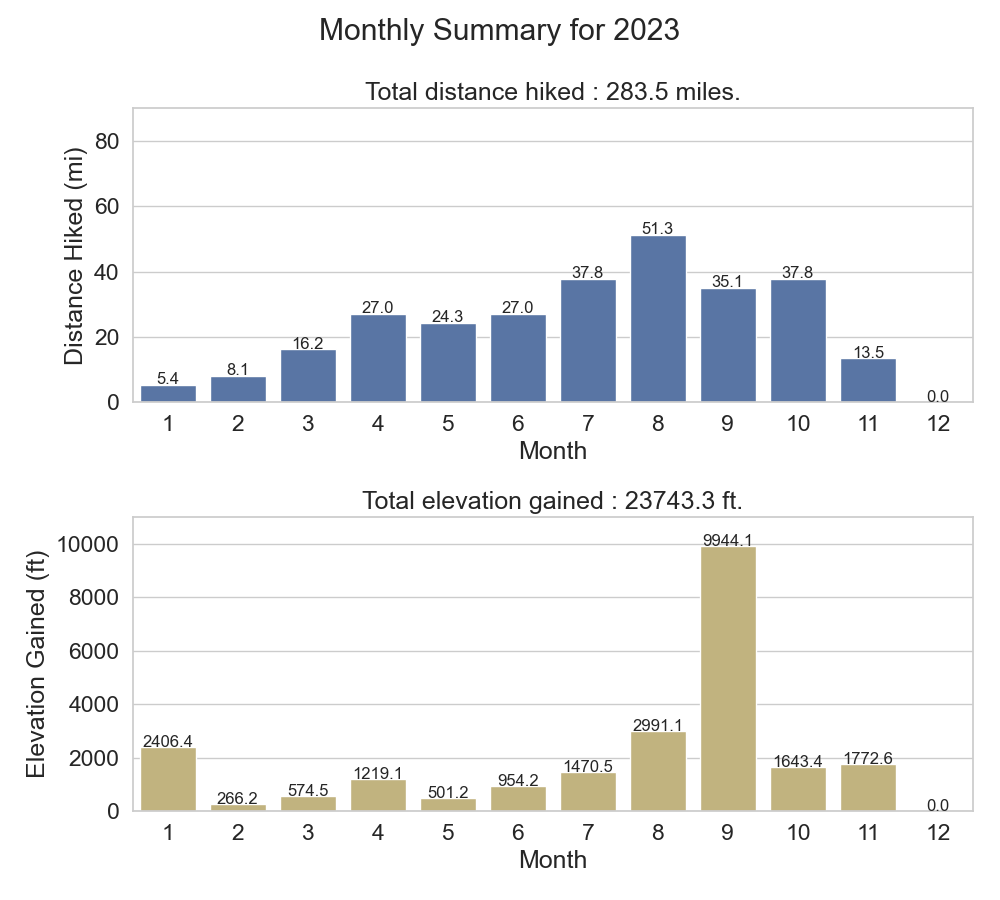
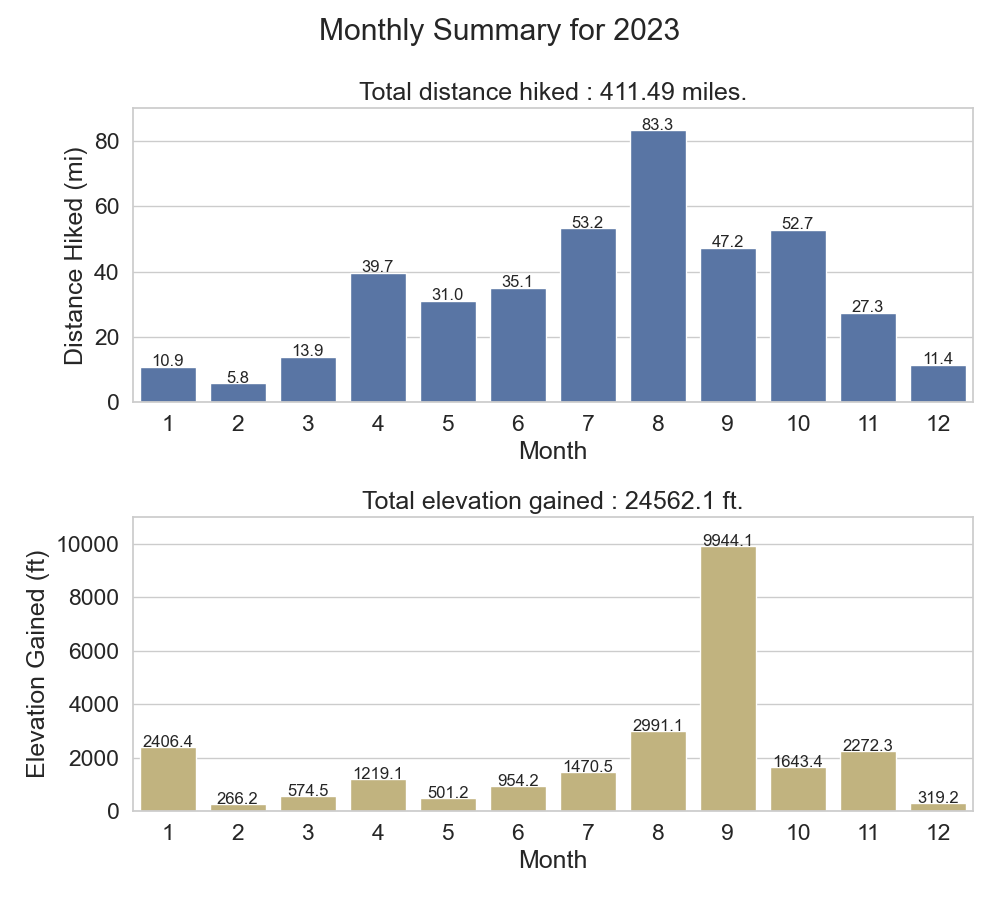
Updated summary totals

diff --git a/hiking.html b/hiking.html
@@ -109,17 +109,17 @@
 					<div class="stats-overlay">
 						<div class="statsbar">
 							<div class="stat-one">
-								<div class="stat-number" data-n="123">
-								  <span class="Single">123</span>
+								<div class="stat-number" data-n="128">
+								  <span class="Single">128</span>
 								</div>
 								<div class="stat-title">Hrs spent hiking</div>
 							</div>
 							<div class="stat-two">
-								<div class="stat-number" data-n="284">284</div>
+								<div class="stat-number" data-n="411">411</div>
 								<div class="stat-title">miles hiked</div>
 							</div>
 							<div class="stat-three">
-								<div class="stat-number" data-n="23743">23743</div>
+								<div class="stat-number" data-n="24562">24562</div>
 								<div class="stat-title">ft elevation gained</div>
 							</div>
 							<div class="stat-four">
@@ -136,7 +136,7 @@
 				<article class="article">
 					<header>
 						<figure>
-							<center><img src="img/2023/2023monthlySummary.png" alt="2023monthlySummary" style="width:80%"/></center>
+							<center><img src="img/2023/2023monthlySummary.png" alt="2023monthlySummary" style="width:90%"/></center>
 							<noscript><img src="img/2023/2023monthlySummary.png"/></noscript>
 							<!--<figcaption>- This is photo caption</figcaption> -->
 						</figure>
@@ -157,10 +157,11 @@
 				<br/><br/>
 
 				<div class="quote">
-					<p class="line-through"><span><a href="HikeList.html">SEE ALL OF OUR HIKES</a></span></p>
+					<p class="line-through"><span><a href="HikeList.html">SEE MORE OF OUR HIKES</a></span></p>
 				</div>
-				<br/>
-			
+				<br/><br/>
+
+				<p><strong>Hikes from previous years coming soon... </strong></p>
 			    <!--<h1>Buttons</h1>
 				<hr/>
 

diff --git a/hikes/HalfDome.html b/hikes/HalfDome.html
@@ -140,7 +140,7 @@
 			
 			<p>Type is all set with the <code>rems</code>, so font-sizes and spacial relationships can be responsively sized based on a single <code>&lt;html&gt;</code> font-size property. Out of the box, Skeleton never changes the <code>&lt;html&gt;</code> font-size, but it's there in case you need it for your project. All measurements are still base 10 though so, an <code>&lt;h1&gt;</code> with <code>5.0rem</code>font-size just means <code>50px</code>.</p>
 			
-			<center><iframe width="70%" height="415" src="https://www.youtube.com/embed/M7OyBhsRVfQ?si=ipWMsGu43BmkoLr9" title="YouTube video player" frameborder="0" allow="accelerometer; autoplay; clipboard-write; encrypted-media; gyroscope; picture-in-picture; web-share" allowfullscreen></iframe></center>
+			<center><iframe width="75%" height="455" src="https://www.youtube.com/embed/M7OyBhsRVfQ?si=ipWMsGu43BmkoLr9" title="YouTube video player" frameborder="0" allow="accelerometer; autoplay; clipboard-write; encrypted-media; gyroscope; picture-in-picture; web-share" allowfullscreen></iframe></center>
 
 			<p>Type is all set with the <code>rems</code>, so font-sizes and spacial relationships can be responsively sized based on a single <code>&lt;html&gt;</code> font-size property. Out of the box, Skeleton never changes the <code>&lt;html&gt;</code> font-size, but it's there in case you need it for your project. All measurements are still base 10 though so, an <code>&lt;h1&gt;</code> with <code>5.0rem</code>font-size just means <code>50px</code>.</p>
 

diff --git a/hikes/HighPeaks.html b/hikes/HighPeaks.html
@@ -177,6 +177,10 @@
 
 			<p>Type is all set with the <code>rems</code>, so font-sizes and spacial relationships can be responsively sized based on a single <code>&lt;html&gt;</code> font-size property. Out of the box, Skeleton never changes the <code>&lt;html&gt;</code> font-size, but it's there in case you need it for your project. All measurements are still base 10 though so, an <code>&lt;h1&gt;</code> with <code>5.0rem</code>font-size just means <code>50px</code>.</p>
 
+			<center><iframe width="75%" height="455" src="https://www.youtube.com/embed/N3nfTDrUnJg?si=OoR0mLASrLnyJCYc" title="YouTube video player" frameborder="0" allow="accelerometer; autoplay; clipboard-write; encrypted-media; gyroscope; picture-in-picture; web-share" allowfullscreen></iframe></center>
+
+			<p>Type is all set with the <code>rems</code>, so font-sizes and spacial relationships can be responsively sized based on a single <code>&lt;html&gt;</code> font-size property. Out of the box, Skeleton never changes the <code>&lt;html&gt;</code> font-size, but it's there in case you need it for your project. All measurements are still base 10 though so, an <code>&lt;h1&gt;</code> with <code>5.0rem</code>font-size just means <code>50px</code>.</p>
+
 			<header>
 					<div class="gallery">
 						  <div class="img_box blur pic">

diff --git a/hikes/BoardwalkLoop.html b/hikes/BoardwalkLoop.html
@@ -137,6 +137,9 @@
 
 				</article>
 
+			<p>Type is all set with the <code>rems</code>, so font-sizes and spacial relationships can be responsively sized based on a single <code>&lt;html&gt;</code> font-size property. Out of the box, Skeleton never changes the <code>&lt;html&gt;</code> font-size, but it's there in case you need it for your project. All measurements are still base 10 though so, an <code>&lt;h1&gt;</code> with <code>5.0rem</code>font-size just means <code>50px</code>.</p>
+
+			<center><iframe width="75%" height="455" src="https://www.youtube.com/embed/GPL03_UR_Ug?si=Su5p5QBiKV1ck8id" title="YouTube video player" frameborder="0" allow="accelerometer; autoplay; clipboard-write; encrypted-media; gyroscope; picture-in-picture; web-share" allowfullscreen></iframe></center>
 
 			<p>Type is all set with the <code>rems</code>, so font-sizes and spacial relationships can be responsively sized based on a single <code>&lt;html&gt;</code> font-size property. Out of the box, Skeleton never changes the <code>&lt;html&gt;</code> font-size, but it's there in case you need it for your project. All measurements are still base 10 though so, an <code>&lt;h1&gt;</code> with <code>5.0rem</code>font-size just means <code>50px</code>.</p>
 

diff --git a/HikeList.html b/HikeList.html
@@ -191,7 +191,9 @@
 							</li>
 						</ul>
 					
-				<br/><br/><br/>
+				<br/><br/>
+
+				<p><strong>MORE COMMING SOON...</strong></p>
 
 		</section>
 
